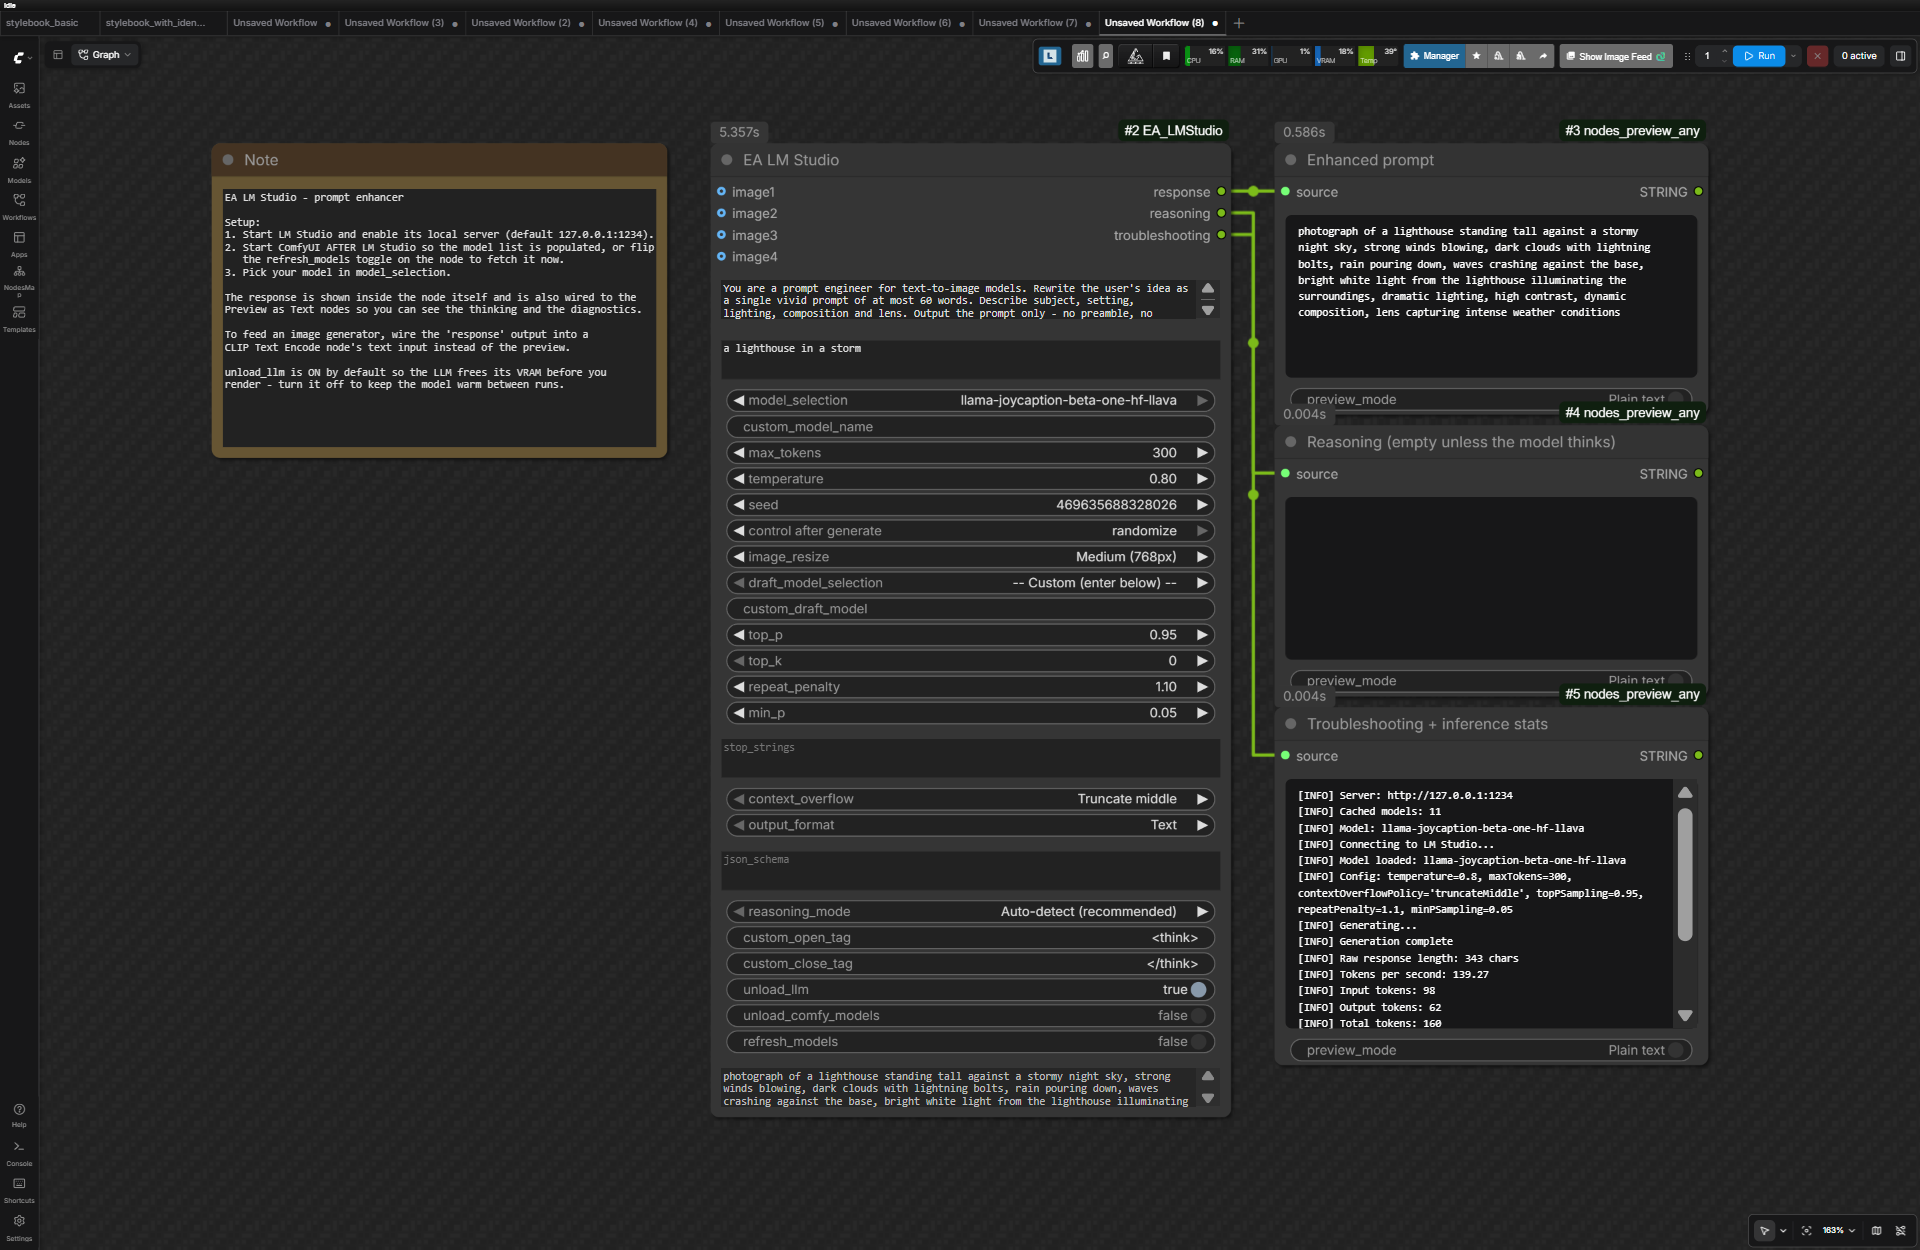
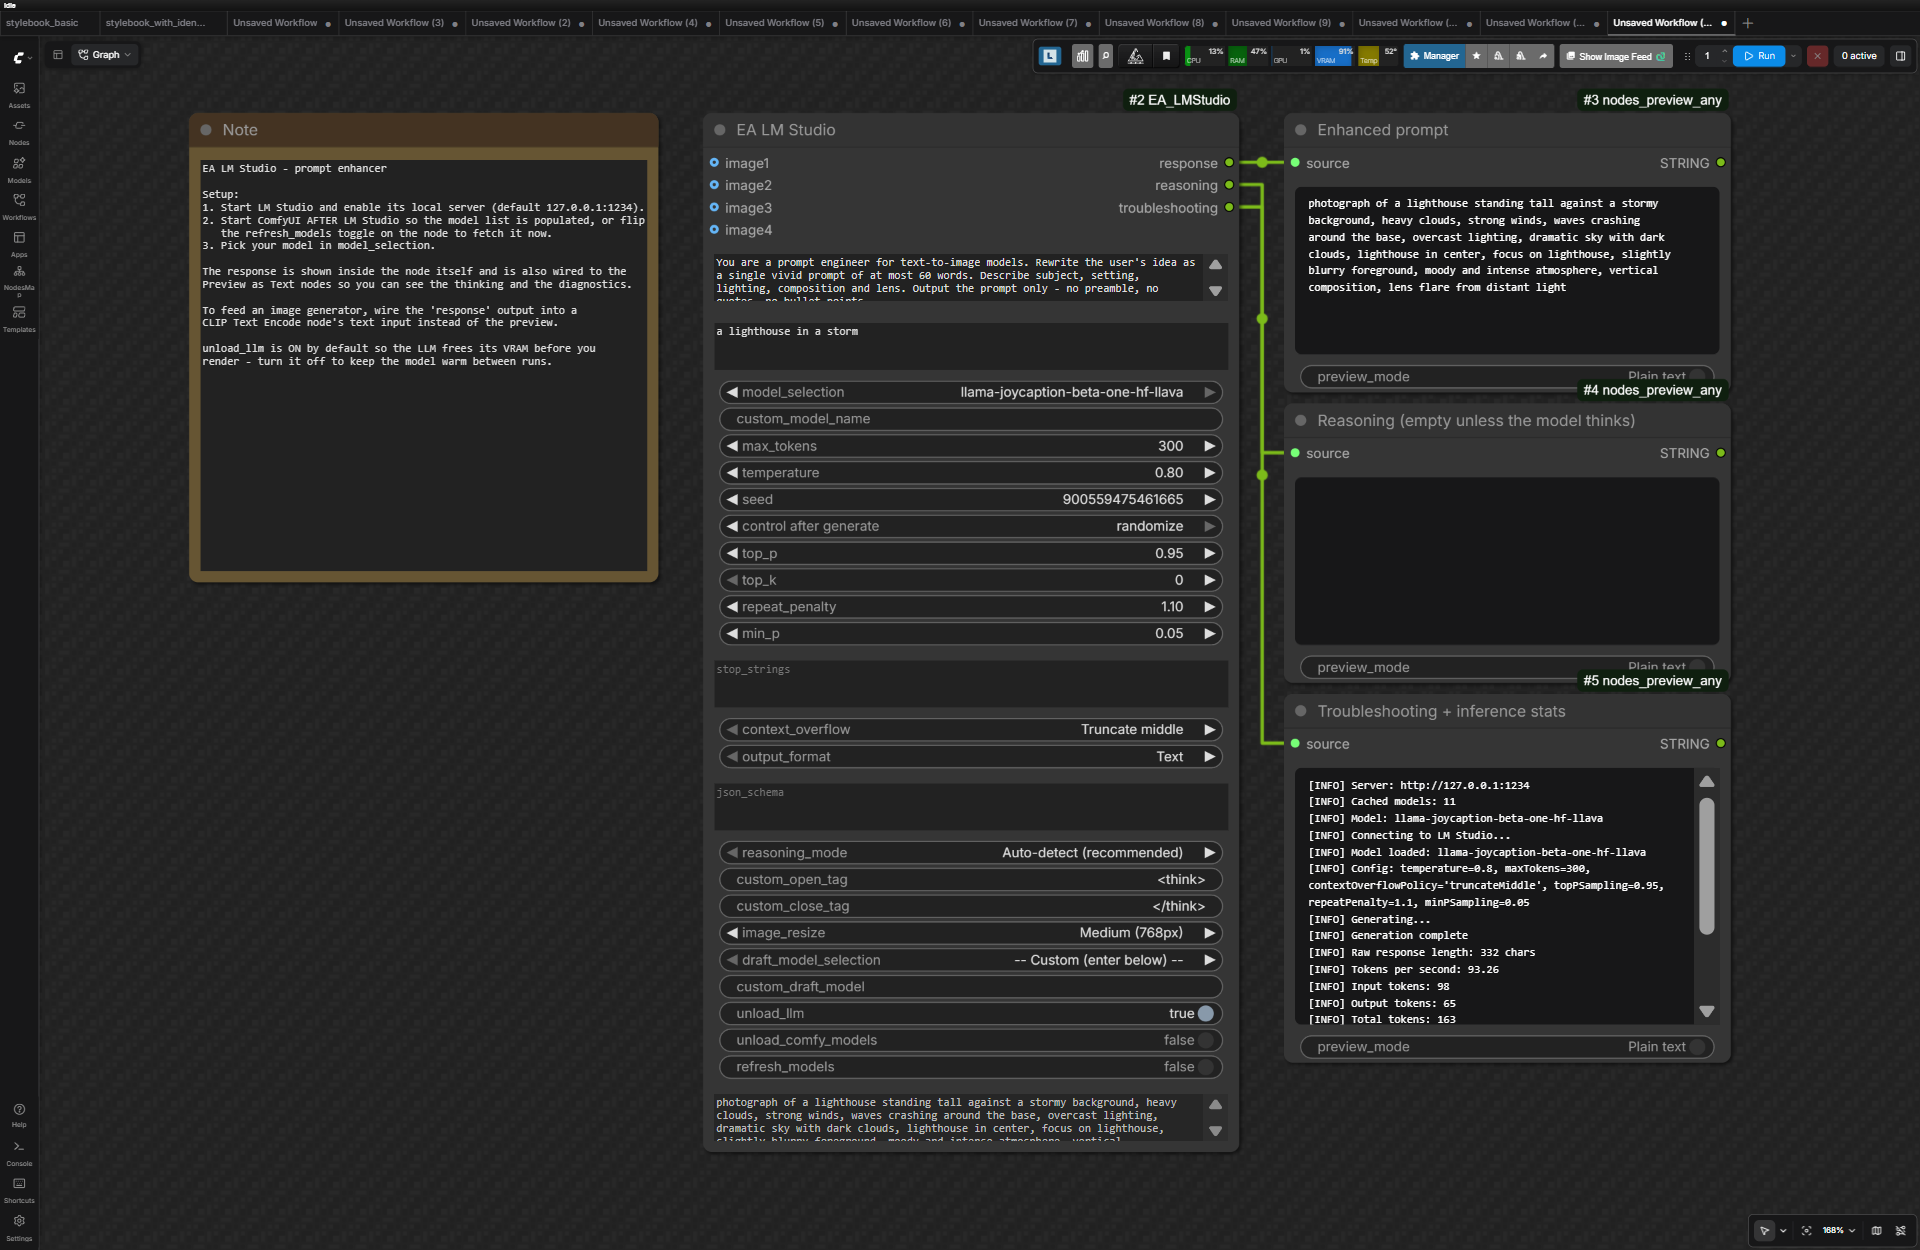
Regroup node widgets, fix restored-workflow overflow, drop dead-widget layout debt
Layout was incoherent: image_resize sat between seed and the draft model, two
empty textareas broke up the sampling rows, and json_schema showed even in Text
mode. Widgets are now grouped most-used first:

  prompts -> model -> generation -> sampling -> output shaping -> reasoning
  -> vision -> speculative decoding -> management

Reordering is safe precisely now: no v2 workflow exists yet, and the v1
migration writes values onto current widgets by name, so it is order
independent. Verified in a browser - a v1 workflow lands correctly on the
regrouped widgets, including image_resize and custom_draft_model.

Also fixes a real defect this surfaced: a workflow stores the node's size and
LiteGraph restores it verbatim without re-checking that the widgets still fit.
v2.0.0 has a net two more widgets than v1.5.x, so every upgraded workflow was
restored too short and the overflow drew outside the node frame.
growToFitWidgets grows (never shrinks) the node on configure and after
execution; a v1 node stored at 700px now grows to 820px on load.

For the record: a stock ComfyUI Note node's textarea overhangs its own frame by
~13 units at any size. That is upstream behaviour, measured against a freshly
created Note, and is not something this pack causes or should chase.

diff --git a/web/ea_lmstudio.js b/web/ea_lmstudio.js
@@ -51,6 +51,9 @@ const LEGACY_ORDER = [
     "unload_comfy_models",
     "refresh_models",
 ];
+// v2.0.0 also regrouped the widgets, so the migration below cannot assume the
+// old and new orders line up - it maps every legacy value onto the current
+// widget of the same name, which is order-independent by construction.
 
 const LEGACY_ORDER_WITH_SEED_CONTROL = [
     ...LEGACY_ORDER.slice(0, 7),
@@ -139,6 +142,30 @@ function migrateLegacyWidgetValues(node, widgetValues, defaults) {
     return true;
 }
 
+/**
+ * Grow a node that is stored smaller than its widgets need.
+ *
+ * A workflow stores the node's size, and LiteGraph restores it verbatim - it
+ * does not re-check that the widgets still fit. Any release that adds a widget
+ * therefore leaves every previously saved workflow a row or two too short, and
+ * the overflowing widgets draw outside the node's frame. v2.0.0 has a net two
+ * more widgets than v1.5.x, so this affects every upgraded workflow, not just
+ * an unlucky few. Only ever grows - a deliberately widened node is preserved.
+ */
+function growToFitWidgets(node) {
+    try {
+        const [minWidth, minHeight] = node.computeSize();
+        if (node.size[0] < minWidth || node.size[1] < minHeight) {
+            node.setSize([
+                Math.max(node.size[0], minWidth),
+                Math.max(node.size[1], minHeight),
+            ]);
+        }
+    } catch (err) {
+        console.error("[EA_LMStudio] Could not resize node to fit widgets:", err);
+    }
+}
+
 function getPreviewWidget(node) {
     let widget = node.widgets?.find((w) => w.name === PREVIEW_WIDGET_NAME);
     if (widget) return widget;
@@ -179,6 +206,7 @@ app.registerExtension({
             } catch (err) {
                 console.error("[EA_LMStudio] Legacy workflow migration failed:", err);
             }
+            growToFitWidgets(this);
         };
 
         /*
@@ -207,11 +235,7 @@ app.registerExtension({
             const widget = getPreviewWidget(this);
             widget.value = text;
 
-            const [minWidth, minHeight] = this.computeSize();
-            this.setSize([
-                Math.max(this.size[0], minWidth),
-                Math.max(this.size[1], minHeight),
-            ]);
+            growToFitWidgets(this);
             app.graph.setDirtyCanvas(true, false);
         };
     },

diff --git a/LMStudio.py b/LMStudio.py
@@ -248,33 +248,12 @@ class EALMStudio:
                     "tooltip": "Re-roll control only. LM Studio has no inference-time seed, so this does NOT make output reproducible - changing it simply tells ComfyUI the node is dirty so it generates again instead of reusing the cached response. Set control_after_generate to 'randomize' for a fresh answer every queue, or 'fixed' to keep the cached one."
                 }),
             },
+            # Widget order below is the on-node layout. Grouped most-used first:
+            # sampling -> output shaping -> reasoning -> vision -> speculative
+            # decoding -> management. Each group's dependent fields follow the
+            # control that switches them on, and every dependent field's tooltip
+            # names that control, so the layout reads top-to-bottom.
             "optional": {
-                # --- Image inputs (for VLMs) ---
-                "image_resize": (IMAGE_RESIZE_OPTIONS, {
-                    "default": "Medium (768px)",
-                    "tooltip": "Resize images before processing. Smaller = faster inference. 'No Resize' keeps original size. Only applies when images are connected."
-                }),
-                "image1": ("IMAGE", {
-                    "tooltip": "First image input for vision models (VLMs). Leave unconnected for text-only inference."
-                }),
-                "image2": ("IMAGE", {
-                    "tooltip": "Second image input for multi-image VLMs. Not all VLMs support multiple images."
-                }),
-                "image3": ("IMAGE", {
-                    "tooltip": "Third image input for multi-image VLMs. Not all VLMs support multiple images."
-                }),
-                "image4": ("IMAGE", {
-                    "tooltip": "Fourth image input for multi-image VLMs. Not all VLMs support multiple images."
-                }),
-                # --- Advanced model options ---
-                "draft_model_selection": (model_choices, {
-                    "default": CUSTOM_MODEL_OPTION,
-                    "tooltip": "Optional draft model for speculative decoding (faster inference). Must share a tokenizer with the main model. Leave on 'Custom' with an empty box to disable. Acceptance stats are reported in troubleshooting."
-                }),
-                "custom_draft_model": ("STRING", {
-                    "default": "",
-                    "tooltip": "Manual draft model identifier. Only used when draft 'Custom' is selected. Leave empty to disable."
-                }),
                 # --- Sampling parameters ---
                 "top_p": ("FLOAT", {
                     "default": 1.0,
@@ -335,6 +314,32 @@ class EALMStudio:
                 "custom_close_tag": ("STRING", {
                     "default": "</think>",
                     "tooltip": "Custom closing tag for reasoning extraction. Only used when reasoning_mode is 'Custom tags'."
+                }),
+                # --- Vision (only relevant when an image input is connected) ---
+                "image_resize": (IMAGE_RESIZE_OPTIONS, {
+                    "default": "Medium (768px)",
+                    "tooltip": "Resize images before processing. Smaller = faster inference. 'No Resize' keeps original size. Only applies when images are connected."
+                }),
+                "image1": ("IMAGE", {
+                    "tooltip": "First image input for vision models (VLMs). Leave unconnected for text-only inference."
+                }),
+                "image2": ("IMAGE", {
+                    "tooltip": "Second image input for multi-image VLMs. Not all VLMs support multiple images."
+                }),
+                "image3": ("IMAGE", {
+                    "tooltip": "Third image input for multi-image VLMs. Not all VLMs support multiple images."
+                }),
+                "image4": ("IMAGE", {
+                    "tooltip": "Fourth image input for multi-image VLMs. Not all VLMs support multiple images."
+                }),
+                # --- Speculative decoding ---
+                "draft_model_selection": (model_choices, {
+                    "default": CUSTOM_MODEL_OPTION,
+                    "tooltip": "Optional draft model for speculative decoding (faster inference). Must share a tokenizer with the main model. Leave on 'Custom' with an empty box to disable. Acceptance stats are reported in troubleshooting."
+                }),
+                "custom_draft_model": ("STRING", {
+                    "default": "",
+                    "tooltip": "Manual draft model identifier. Only used when draft 'Custom' is selected. Leave empty to disable."
                 }),
                 # --- Management ---
                 "unload_llm": ("BOOLEAN", {

diff --git a/AGENTS.md b/AGENTS.md
@@ -80,11 +80,21 @@ seed, and no thinking on/off flag.** `seed` exists only in the *load* config.
 The `seed` widget is a ComfyUI cache-buster and nothing more.
 
 **Removing or reordering a widget corrupts saved workflows.** ComfyUI serialises
-`widgets_values` positionally, so a removal shifts every later value. The
-migration in `web/ea_lmstudio.js` keys the old array by the v1.5.x widget-name
-order (two variants, with and without the `control_after_generate` widget
-ComfyUI inserts after an INT named `seed`). Any future removal needs the same
-treatment, and the legacy order table must be kept.
+`widgets_values` positionally, so a removal or a regroup shifts every later
+value. The migration in `web/ea_lmstudio.js` keys the old array by the v1.5.x
+widget-name order (two variants, with and without the `control_after_generate`
+widget ComfyUI inserts after an INT named `seed`) and writes values onto current
+widgets **by name**, which is why v2.0.0 could both drop two widgets and regroup
+the rest. Any future removal or reorder needs the same treatment, and the legacy
+order table must be kept.
+
+**A stored node size is restored verbatim and is not re-checked against the
+widgets.** Adding a widget therefore leaves every previously saved workflow too
+short, and the overflow draws outside the node frame. `growToFitWidgets` in the
+frontend extension grows (never shrinks) the node on configure and after
+execution. Note that a stock ComfyUI `Note` node's textarea overhangs its own
+frame by ~13 units at any size — that is upstream behaviour, not a symptom of
+this, so don't chase it.
 
 **A streamed prediction must be drained, not broken out of.** Breaking the `for`
 loop closes the generator and `stream.result()` then raises `GeneratorExit`.
